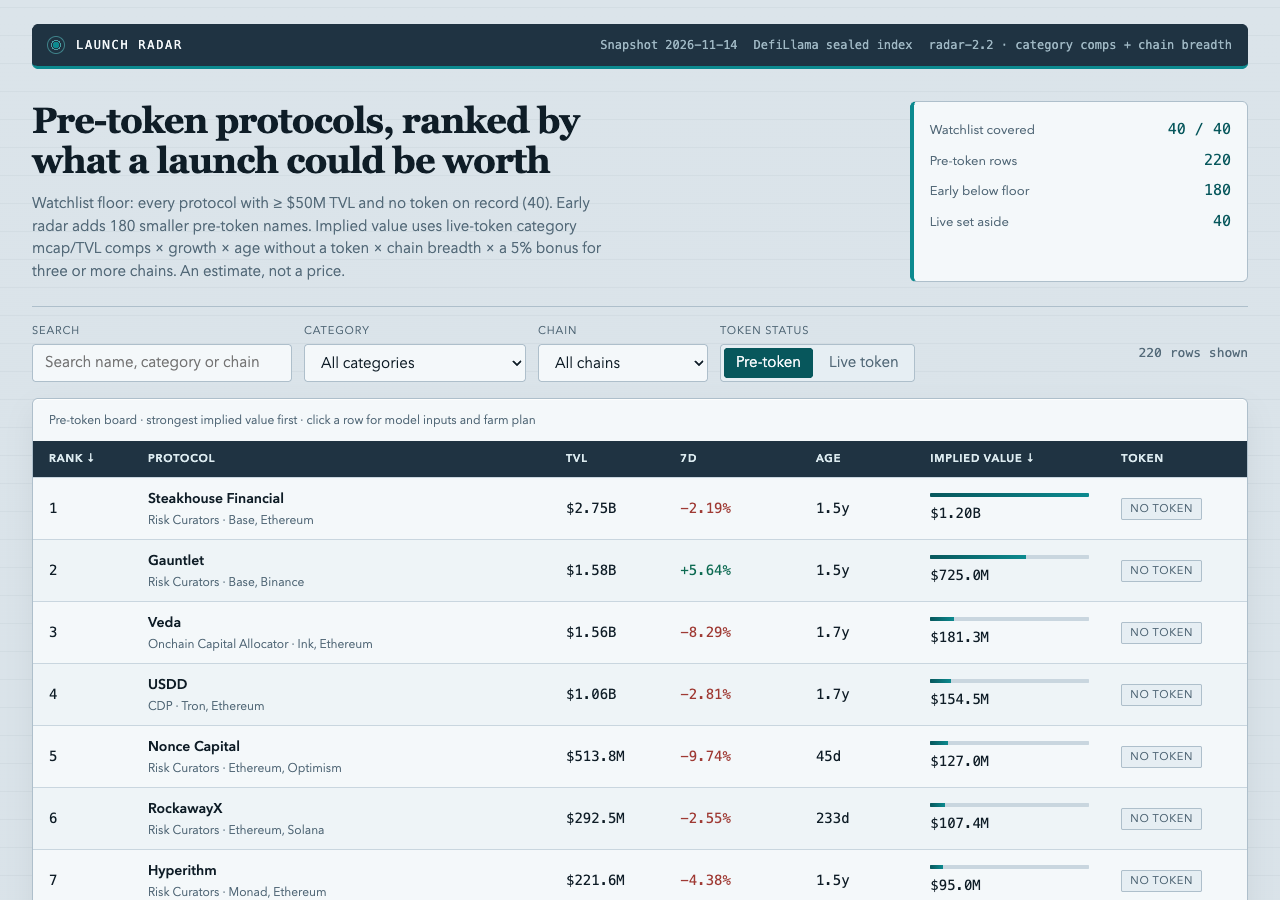
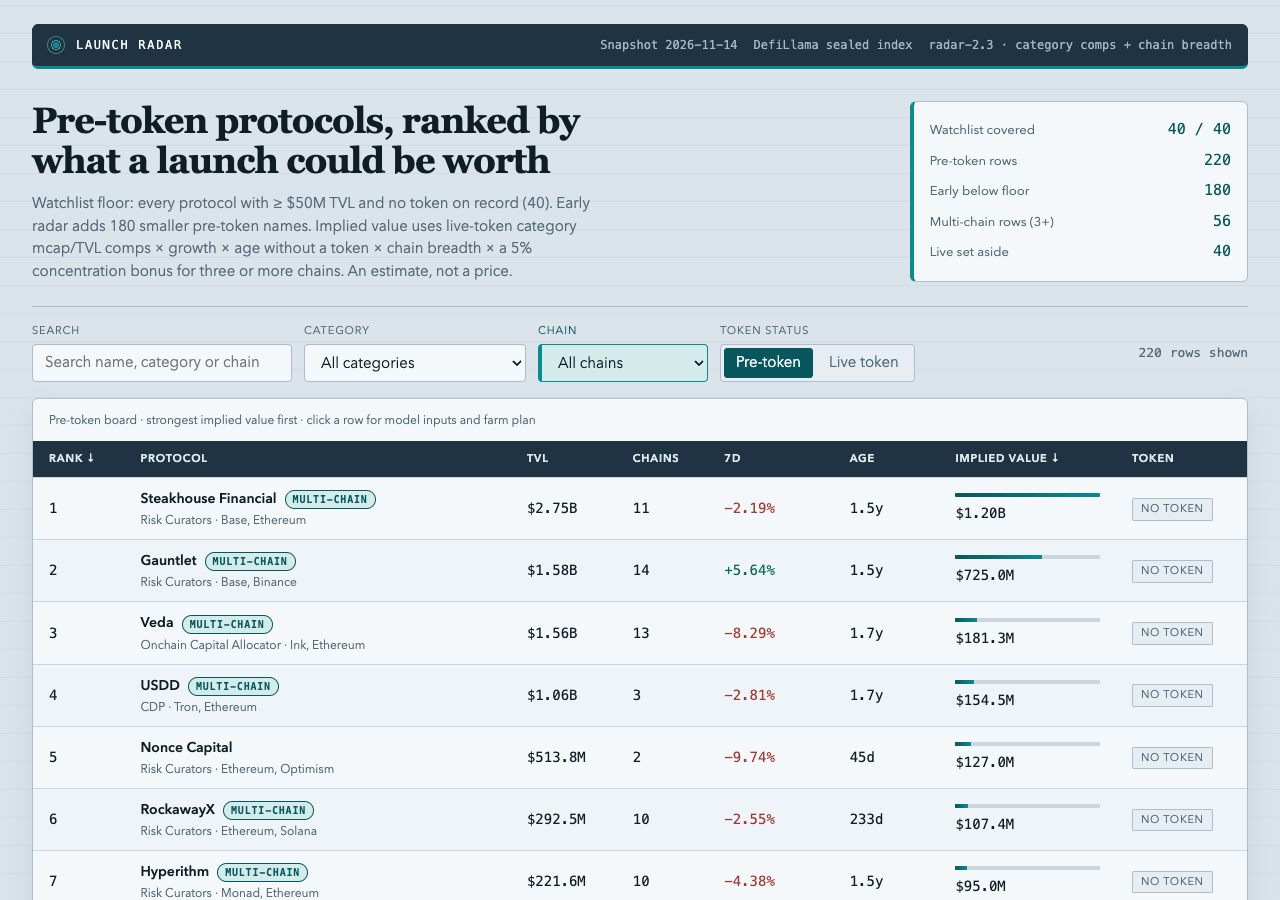
radar-2.3: score breakdown, multi-chain badge, chain sort

diff --git a/dashboard/app.js b/dashboard/app.js
@@ -1,4 +1,4 @@
-// Launch Radar dashboard (radar-2.2). Reads window.RADAR from ../data.js. No network.
+// Launch Radar dashboard (radar-2.3). Reads window.RADAR from ../data.js. No network.
 (function () {
   'use strict';
 
@@ -6,6 +6,7 @@
   if (!DATA) return;
   var app = document.getElementById('board');
   var state = { q: '', category: 'all', chain: 'all', tab: 'pre-token', sort: 'implied', dir: -1, selected: null };
+  var MULTI_CHAIN_MIN = 3;
 
   var usd = new Intl.NumberFormat('en-US', { style: 'currency', currency: 'USD', maximumFractionDigits: 0 });
   function fmtUsd(n) {
@@ -24,20 +25,31 @@
     if (days >= 365) return (days / 365).toFixed(1) + 'y';
     return Math.max(0, Math.round(days)) + 'd';
   }
+  function fmtMult(n) { return (Math.round(n * 1e4) / 1e4).toString(); }
   function clamp(n, lo, hi) { return Math.min(hi, Math.max(lo, n)); }
   function none(v) { return v === null || v === undefined; }
+  function chainCount(row) { return (row.chains || []).length; }
+  function isMultiChain(row) { return chainCount(row) >= MULTI_CHAIN_MIN; }
 
-  // Same arithmetic as lib/model.ts impliedValue (radar-2.2), including concentrationMult.
-  function impliedOf(row, model) {
-    var growth = clamp(none(row.change_7d) ? 0 : row.change_7d, model.growth_floor, model.growth_cap);
-    var growthMult = 1 + (growth / 100) * model.growth_weight;
-    var age = none(row.age_days) ? model.unknown_age_days : row.age_days;
-    var maturity = model.maturity_floor + (clamp(age, 0, model.maturity_days) / model.maturity_days) * model.maturity_range;
-    var cat = (DATA.category_multiples && row.category && DATA.category_multiples[row.category]) || model.fallback_multiple;
-    var n = (row.chains || []).length;
+  // Same arithmetic as scoreBreakdown in lib/model.ts (radar-2.3): every multiplier behind implied value.
+  function scoreBreakdownOf(row, model) {
+    var growthPct = clamp(none(row.change_7d) ? 0 : row.change_7d, model.growth_floor, model.growth_cap);
+    var growthMult = 1 + (growthPct / 100) * model.growth_weight;
+    var ageUsed = none(row.age_days) ? model.unknown_age_days : row.age_days;
+    var maturityMult = model.maturity_floor + (clamp(ageUsed, 0, model.maturity_days) / model.maturity_days) * model.maturity_range;
+    var categoryMult = (DATA.category_multiples && row.category && DATA.category_multiples[row.category]) || model.fallback_multiple;
+    var n = chainCount(row);
     var chainMult = 1 + Math.min(Math.max(n - 1, 0), model.chain_cap) * model.chain_weight;
     var concentrationMult = n >= model.concentration_min_chains ? 1 + model.concentration_bonus : 1;
-    return Math.max(1, Math.round(row.tvl_usd * cat * growthMult * maturity * chainMult * concentrationMult));
+    return {
+      chainCount: n, growthPct: growthPct, ageUsed: ageUsed, ageKnown: !none(row.age_days),
+      categoryMult: categoryMult, growthMult: growthMult, maturityMult: maturityMult,
+      chainMult: chainMult, concentrationMult: concentrationMult
+    };
+  }
+  function impliedOf(row, model) {
+    var b = scoreBreakdownOf(row, model);
+    return Math.max(1, Math.round(row.tvl_usd * b.categoryMult * b.growthMult * b.maturityMult * b.chainMult * b.concentrationMult));
   }
 
   function el(tag, attrs) {
@@ -60,7 +72,7 @@
     return node;
   }
 
-  // Farm plan: mirrors farmSteps in lib/model.ts (radar-2.2).
+  // Farm plan: mirrors farmSteps in lib/model.ts.
   function chainOf(p) { return p.chains && p.chains.length > 0 ? p.chains[0] : 'its main chain'; }
   function capitalFor(p) {
     if (p.tvl_usd >= 5e9) return 300;
@@ -154,6 +166,7 @@
       var av, bv;
       if (key === 'name') { av = a.name.toLowerCase(); bv = b.name.toLowerCase(); }
       else if (key === 'tvl') { av = a.tvl_usd; bv = b.tvl_usd; }
+      else if (key === 'chains') { av = chainCount(a); bv = chainCount(b); }
       else if (key === 'growth') { av = none(a.change_7d) ? -Infinity : a.change_7d; bv = none(b.change_7d) ? -Infinity : b.change_7d; }
       else if (key === 'age') { av = none(a.age_days) ? Infinity : a.age_days; bv = none(b.age_days) ? Infinity : b.age_days; }
       else { av = a.implied_value_usd; bv = b.implied_value_usd; }
@@ -175,15 +188,17 @@
   }
 
   function lede() {
+    var multi = DATA.rows.filter(isMultiChain).length;
     return el('section', { class: 'lede' },
       el('div', null,
         el('h1', { text: 'Pre-token protocols, ranked by what a launch could be worth' }),
-        el('p', { text: 'Watchlist floor: every protocol with ≥ $' + Math.round(DATA.floor_usd / 1e6) + 'M TVL and no token on record (' + DATA.watchlist_size + '). Early radar adds ' + DATA.early_size + ' smaller pre-token names. Implied value uses live-token category mcap/TVL comps × growth × age without a token × chain breadth × a 5% bonus for three or more chains. An estimate, not a price.' })
+        el('p', { text: 'Watchlist floor: every protocol with ≥ $' + Math.round(DATA.floor_usd / 1e6) + 'M TVL and no token on record (' + DATA.watchlist_size + '). Early radar adds ' + DATA.early_size + ' smaller pre-token names. Implied value uses live-token category mcap/TVL comps × growth × age without a token × chain breadth × a 5% concentration bonus for three or more chains. An estimate, not a price.' })
       ),
       el('div', { class: 'facts' },
         el('div', { class: 'fact' }, el('span', { text: 'Watchlist covered' }), el('b', { text: DATA.watchlist_size + ' / ' + DATA.watchlist_size })),
         el('div', { class: 'fact' }, el('span', { text: 'Pre-token rows' }), el('b', { text: String(DATA.board_size) })),
         el('div', { class: 'fact' }, el('span', { text: 'Early below floor' }), el('b', { text: String(DATA.early_size) })),
+        el('div', { class: 'fact' }, el('span', { text: 'Multi-chain rows (' + MULTI_CHAIN_MIN + '+)' }), el('b', { text: String(multi) })),
         el('div', { class: 'fact' }, el('span', { text: 'Live set aside' }), el('b', { text: String(DATA.live_size) }))
       )
     );
@@ -195,7 +210,7 @@
       values.map(function (v) { return el('option', { value: v, text: v, selected: v === current ? 'selected' : null }); })
     );
     select.addEventListener('change', function () { onChange(select.value); writeHash(); render(); });
-    return el('div', { class: 'field' }, el('label', { for: id, text: label }), select);
+    return el('div', { class: 'field' + (id === 'chain' ? ' chain-filter' : '') }, el('label', { for: id, text: label }), select);
   }
 
   function controls() {
@@ -230,6 +245,10 @@
     return (r.category || 'Other') + ' · ' + (r.chains && r.chains.length ? r.chains.slice(0, 2).join(', ') : 'unnamed chain');
   }
 
+  function multiChainBadge(r) {
+    return isMultiChain(r) ? el('span', { class: 'badge-multi', title: chainCount(r) + ' chains', text: 'multi-chain' }) : null;
+  }
+
   function boardTable() {
     var list = sortedRows(rows());
     if (list.length === 0) {
@@ -249,8 +268,9 @@
         onkeydown: function (e) { if (e.key === 'Enter' || e.key === ' ') { e.preventDefault(); openDetail(r.slug); } }
       },
         el('td', { class: 'num', text: String(r.rank) }),
-        el('td', null, el('div', { class: 'name' }, el('b', { text: r.name }), el('span', { class: 'sub', text: where(r) }))),
+        el('td', null, el('div', { class: 'name' }, el('b', null, r.name, multiChainBadge(r)), el('span', { class: 'sub', text: where(r) }))),
         el('td', { class: 'num', text: fmtUsd(r.tvl_usd) }),
+        el('td', { class: 'num', text: String(chainCount(r)) }),
         el('td', { class: 'num ' + (none(r.change_7d) ? '' : r.change_7d >= 0 ? 'pos' : 'neg'), text: fmtPct(r.change_7d) }),
         el('td', { class: 'num', text: fmtAge(r.age_days) }),
         el('td', null, el('div', { class: 'implied' },
@@ -269,6 +289,7 @@
             sortHeader('implied', 'Rank'),
             sortHeader('name', 'Protocol'),
             sortHeader('tvl', 'TVL'),
+            sortHeader('chains', 'Chains'),
             sortHeader('growth', '7d'),
             sortHeader('age', 'Age'),
             sortHeader('implied', 'Implied value'),
@@ -307,7 +328,7 @@
     var m = DATA.model;
     return el('section', { class: 'panel model' },
       el('h2', { text: 'How implied value is computed' }),
-      el('p', { class: 'sub', text: 'One function scores every pre-token row. Category multiples are medians of live-token mcap/TVL in the same DefiLlama category (clamped). No protocol name is special-cased.' }),
+      el('p', { class: 'sub', text: 'One function (scoreBreakdown) returns every multiplier and one more multiplies them with TVL. Category multiples are medians of live-token mcap/TVL in the same DefiLlama category (clamped). No protocol name is special-cased.' }),
       el('div', { class: 'formula' },
         'implied = round( tvl × catMultiple × (1 + clamp(Δ7d,' + m.growth_floor + ',' + m.growth_cap + ')/100 × ' + m.growth_weight + ') × (' + m.maturity_floor + ' + min(age,' + m.maturity_days + ')/' + m.maturity_days + ' × ' + m.maturity_range + ') × (1 + min(chains-1,' + m.chain_cap + ') × ' + m.chain_weight + ') × concentrationMult )'
       ),
@@ -325,10 +346,11 @@
     writeHash();
     dialog.textContent = '';
     var recomputed = impliedOf(row, DATA.model);
+    var b = scoreBreakdownOf(row, DATA.model);
     dialog.appendChild(el('div', { class: 'detail-head' },
       el('div', null,
         el('span', { class: 'brand-name', text: 'Rank ' + row.rank + ' of ' + DATA.board_size }),
-        el('h2', { id: 'detail-title', text: row.name }),
+        el('h2', { id: 'detail-title' }, row.name, multiChainBadge(row)),
         el('p', { class: 'sub', text: (row.category || 'Other') + ' on ' + (row.chains && row.chains.length ? row.chains.join(', ') : 'an unnamed chain') })
       ),
       el('button', { class: 'close', type: 'button', 'aria-label': 'Close details', text: 'Close', onclick: function () { dialog.close(); } })
@@ -337,13 +359,22 @@
       el('h3', { text: 'Implied value' }),
       el('div', { class: 'equation' },
         el('div', null, el('span', { text: 'TVL' }), el('b', { class: 'num', text: fmtUsd(row.tvl_usd) })),
-        el('div', null, el('span', { text: 'Seven-day growth' }), el('b', { class: 'num', text: fmtPct(row.change_7d) })),
-        el('div', null, el('span', { text: 'Age with no token' }), el('b', { class: 'num', text: fmtAge(row.age_days) })),
-        el('div', null, el('span', { text: 'Category multiple' }), el('b', { class: 'num', text: String(row.category_multiple) })),
-        el('div', null, el('span', { text: 'Growth × maturity × chains × concentration' }), el('b', { class: 'num', text: row.growth_multiplier + ' × ' + row.maturity_multiplier + ' × ' + row.chain_multiplier + ' × ' + row.concentration_multiplier })),
         el('div', null, el('span', { text: 'Implied value' }), el('b', { class: 'num', text: fmtUsd(row.implied_value_usd) }))
       ),
       el('p', { class: 'sub', text: 'Model ' + DATA.model_version + ' recomputes this row as ' + fmtUsd(recomputed) + (recomputed === row.implied_value_usd ? ', matching board.json.' : ', which differs from the board.') + ' Estimate only.' })
+    ));
+    dialog.appendChild(el('section', { class: 'detail-section' },
+      el('h3', { text: 'Score breakdown' }),
+      el('div', { class: 'equation' },
+        el('div', null, el('span', { text: 'Chains listed' }), el('b', { class: 'num', text: String(b.chainCount) })),
+        el('div', null, el('span', { text: 'Seven-day growth (clamped)' }), el('b', { class: 'num', text: fmtPct(b.growthPct) + (none(row.change_7d) ? ' (none on record)' : '') })),
+        el('div', null, el('span', { text: 'Age used by the model' }), el('b', { class: 'num', text: fmtAge(b.ageUsed) + (b.ageKnown ? '' : ' (unknown, default)') })),
+        el('div', null, el('span', { text: 'Category multiple' }), el('b', { class: 'num', text: fmtMult(b.categoryMult) })),
+        el('div', null, el('span', { text: 'Growth multiplier' }), el('b', { class: 'num', text: fmtMult(b.growthMult) })),
+        el('div', null, el('span', { text: 'Maturity multiplier' }), el('b', { class: 'num', text: fmtMult(b.maturityMult) })),
+        el('div', null, el('span', { text: 'Chain multiplier' }), el('b', { class: 'num', text: fmtMult(b.chainMult) })),
+        el('div', null, el('span', { text: 'Concentration multiplier' }), el('b', { class: 'num', text: fmtMult(b.concentrationMult) }))
+      )
     ));
     dialog.appendChild(el('section', { class: 'detail-section' },
       el('h3', { text: 'Farm plan' }),

diff --git a/lib/model.ts b/lib/model.ts
@@ -1,4 +1,4 @@
-// Token radar model radar-2.2: implied value from snapshot figures only.
+// Token radar model radar-2.3: implied value from snapshot figures only.
 //
 //   catMultiple = median(mcap/tvl) of live-token peers in the same category (clamped), else FALLBACK
 //   growthMult  = 1 + clamp(change_7d, GROWTH_FLOOR, GROWTH_CAP) / 100 * GROWTH_WEIGHT        (weight 0.7)
@@ -8,9 +8,10 @@
 //   concentrationMult = 1 + CONCENTRATION_BONUS (0.05) when chains.length >= CONCENTRATION_MIN_CHAINS (3), else 1
 //   implied     = max(1, round(tvl_usd * catMultiple * growthMult * maturity * chainMult * concentrationMult))
 //
+// scoreBreakdown() returns every one of those multipliers; impliedValue() only multiplies them together.
 // Live-token protocols are never mixed into the ranked board; their mcap/tvl only sets category comps.
-// No protocol name is special-cased. radar-2.2 adds the concentration factor, raises growth weight to 0.7,
-// widens the early radar to 180 rows and shows 40 live comps.
+// No protocol name is special-cased. radar-2.3 exposes the breakdown as one function; the numbers are
+// the same as radar-2.2 (concentration factor, growth weight 0.7, 180 early rows, 40 live comps).
 
 export interface SnapshotProtocol {
   slug: string;
@@ -70,7 +71,7 @@ export const MODEL: ModelConstants = {
   base_multiple: 0.45,
 };
 
-export const MODEL_VERSION = 'radar-2.2';
+export const MODEL_VERSION = 'radar-2.3';
 export const EARLY_ROWS = 180;
 export const LIVE_ROWS = 40;
 
@@ -218,21 +219,24 @@ export function categoryMultiples(protocols: SnapshotProtocol[], model: ModelCon
   return out;
 }
 
-export function impliedValue(
+export interface ScoreBreakdown {
+  age: number | null;
+  chainCount: number;
+  growthPct: number;
+  growthMult: number;
+  maturityMult: number;
+  categoryMult: number;
+  chainMult: number;
+  concentrationMult: number;
+}
+
+/** Every multiplier that feeds implied value, unrounded. impliedValue() multiplies these with the TVL. */
+export function scoreBreakdown(
   protocol: SnapshotProtocol,
   asOf: string,
   model: ModelConstants,
   multiples: Record<string, number>,
-): {
-  implied: number;
-  growthPct: number;
-  growthMult: number;
-  maturityMult: number;
-  chainMult: number;
-  concentrationMult: number;
-  categoryMult: number;
-  age: number | null;
-} {
+): ScoreBreakdown {
   const age = ageDays(asOf, protocol.listed_at);
   const growthPct = clamp(finite(protocol.change_7d, 0), model.growth_floor, model.growth_cap);
   const growthMult = 1 + (growthPct / 100) * model.growth_weight;
@@ -240,14 +244,24 @@ export function impliedValue(
   const maturityMult =
     model.maturity_floor + (clamp(ageForModel, 0, model.maturity_days) / model.maturity_days) * model.maturity_range;
   const categoryMult = multiples[protocol.category ?? ''] ?? model.fallback_multiple;
-  const extraChains = Math.max(0, protocol.chains.length - 1);
-  const chainMult = 1 + Math.min(extraChains, model.chain_cap) * model.chain_weight;
-  const concentrationMult = protocol.chains.length >= model.concentration_min_chains ? 1 + model.concentration_bonus : 1;
+  const chainCount = protocol.chains.length;
+  const chainMult = 1 + Math.min(Math.max(0, chainCount - 1), model.chain_cap) * model.chain_weight;
+  const concentrationMult = chainCount >= model.concentration_min_chains ? 1 + model.concentration_bonus : 1;
+  return { age, chainCount, growthPct, growthMult, maturityMult, categoryMult, chainMult, concentrationMult };
+}
+
+export function impliedValue(
+  protocol: SnapshotProtocol,
+  asOf: string,
+  model: ModelConstants,
+  multiples: Record<string, number>,
+): ScoreBreakdown & { implied: number } {
+  const b = scoreBreakdown(protocol, asOf, model, multiples);
   const implied = Math.max(
     1,
-    Math.round(protocol.tvl_usd * categoryMult * growthMult * maturityMult * chainMult * concentrationMult),
+    Math.round(protocol.tvl_usd * b.categoryMult * b.growthMult * b.maturityMult * b.chainMult * b.concentrationMult),
   );
-  return { implied, growthPct, growthMult, maturityMult, chainMult, concentrationMult, categoryMult, age };
+  return { ...b, implied };
 }
 
 export function buildBoard(snapshot: Snapshot, model: ModelConstants = MODEL): BoardRow[] {
@@ -306,7 +320,7 @@ function chainOf(p: SnapshotProtocol): string {
   return p.chains.length > 0 ? p.chains[0]! : 'its main chain';
 }
 
-/** radar-2.2 capital tiers by TVL (USD to deploy). */
+/** Capital tiers by TVL (USD to deploy). */
 function capitalFor(p: SnapshotProtocol): number {
   if (p.tvl_usd >= 5_000_000_000) return 300;
   if (p.tvl_usd >= 1_000_000_000) return 200;

diff --git a/main.ts b/main.ts
@@ -1,5 +1,5 @@
 // token-radar-01 entry (Node 22, standard library only).
-// Model radar-2.2: Launch Radar, implied value from live-token category comps (mcap/tvl medians),
+// Model radar-2.3: Launch Radar, implied value from live-token category comps (mcap/TVL medians),
 // growth, maturity, chain breadth and a small concentration bonus for protocols on 3+ chains.
 //
 // Flow: read the sealed snapshot (/input/snapshot.json or --input <file|dir>), score every pre-token
@@ -13,7 +13,7 @@
 import { copyFileSync, existsSync, mkdirSync, readFileSync, readdirSync, statSync, writeFileSync } from 'node:fs';
 import { join } from 'node:path';
 import { fileURLToPath } from 'node:url';
-import { boardIssue, buildRadar, dataScript, parseSnapshot } from './lib/model.ts';
+import { MODEL, MODEL_VERSION, boardIssue, buildRadar, dataScript, parseSnapshot } from './lib/model.ts';
 import { buildDossier } from './vendor/makefun-board.ts';
 
 const here = fileURLToPath(new URL('.', import.meta.url));
@@ -57,11 +57,12 @@ const inputFile = inputArg.endsWith('.json') ? inputArg : join(inputArg, 'snapsh
 if (!existsSync(inputFile)) fail(`no snapshot at ${inputFile}: pass --input <snapshot.json|directory> or mount the sealed /input`, 2);
 const out = arg('output', process.env.MAKEFUN_OUTPUT_DIR ?? '/output');
 
-// radar-2.2 scoring: one pass over the snapshot, then the gate check before anything is written.
+// radar-2.3 scoring: one pass over the snapshot, then the gate check before anything is written.
 const snapshot = parseSnapshot(readFileSync(inputFile, 'utf8'));
 const { board, radar } = buildRadar(snapshot);
 const issue = boardIssue(board, snapshot);
 if (issue !== null) fail(`the model wrote a board the gate refuses: ${issue}`);
+const multiChain = board.filter((r) => r.chains.length >= MODEL.concentration_min_chains).length;
 
 mkdirSync(out, { recursive: true });
 writeFileSync(join(out, 'board.json'), `${JSON.stringify({ rows: board })}\n`);
@@ -80,6 +81,7 @@ for (const name of shots) {
 writeFileSync(join(out, 'dossier.json'), buildDossier(out, { text_max_bytes: TEXT_MAX_BYTES, screenshots: SCREENSHOT_CAPS, dashboard: DASHBOARD_CAPS }));
 
 process.stdout.write(
-  `token radar (radar-2.2): ${snapshot.protocols.length} protocols, ${snapshot.watchlist.length} on the watchlist, ${board.length} rows scored (${radar.early_size} early, ${radar.live_size} live set aside)\n` +
+  `token radar (${MODEL_VERSION}): ${snapshot.protocols.length} protocols, ${snapshot.watchlist.length} on the watchlist, ${board.length} rows scored (${radar.early_size} early, ${radar.live_size} live set aside)\n` +
+    `token radar: ${multiChain} of ${board.length} board rows are multi-chain (>=${MODEL.concentration_min_chains} chains)\n` +
     `token radar: wrote ${join(out, 'board.json')}, ${join(out, 'data.js')}, ${join(out, 'dashboard')} (${dashFiles.length} files), ${join(out, 'screenshots')} (${shots.length} images) and ${join(out, 'dossier.json')}\n`,
 );

diff --git a/dashboard/app.css b/dashboard/app.css
@@ -1,4 +1,4 @@
-/* Launch Radar radar-2.2: cool steel, teal on slate. System fonts only; no network. */
+/* Launch Radar radar-2.3: cool steel, teal on slate. System fonts only; no network. */
 :root {
   --canvas: #cfd9e1;
   --surface: #f4f8fa;
@@ -98,6 +98,9 @@ a { color: var(--accent-deep); }
   border-radius: var(--radius-control); background: var(--surface); min-width: 170px;
 }
 .field input { min-width: 260px; }
+/* Chain filter: accent edge so the chain dropdown reads as the multi-chain control. */
+.chain-filter select { border-color: var(--accent); border-left-width: 4px; background: var(--accent-soft); }
+.chain-filter label { color: var(--accent-deep); }
 .tabs {
   display: flex; gap: var(--s1); padding: 3px; border: 1px solid var(--border);
   border-radius: var(--radius-control); background: var(--panel-alt);
@@ -138,6 +141,13 @@ tbody tr[data-selected="true"] { background: var(--accent-soft); box-shadow: ins
   letter-spacing: 0.06em; text-transform: uppercase; background: var(--panel-alt); color: var(--muted);
   border: 1px solid var(--border);
 }
+/* Shown next to a protocol name when it lists 3 or more chains. */
+.badge-multi {
+  display: inline-block; margin-left: var(--s2); padding: 1px 7px; vertical-align: middle;
+  border-radius: 999px; border: 1px solid var(--accent-deep); background: var(--accent-soft);
+  color: var(--accent-deep); font: 600 10px/1.5 var(--font-num); letter-spacing: 0.08em; text-transform: uppercase;
+  white-space: nowrap;
+}
 .empty { padding: var(--s6); text-align: center; display: grid; gap: var(--s3); justify-items: center; }
 .button {
   min-height: 36px; padding: 0 var(--s4); border-radius: var(--radius-control);
@@ -174,4 +184,5 @@ tbody tr[data-selected="true"] { background: var(--accent-soft); box-shadow: ins
   .lede, .equation { grid-template-columns: 1fr; }
   .field input { min-width: 0; width: 100%; }
   .count { margin-left: 0; }
+  .badge-multi { margin-left: var(--s1); }
 }

diff --git a/README.md b/README.md
@@ -4,7 +4,7 @@
 [![rank](https://make.fun/badge/token-radar-01/ncalamsyah/token-radar-01/rank.svg)](https://make.fun/bounty/token-radar-01/leaderboard?utm_source=github&utm_medium=readme&utm_campaign=token-radar-01)
 [![reward](https://make.fun/badge/token-radar-01/ncalamsyah/token-radar-01/reward.svg)](https://make.fun/bounty/token-radar-01?utm_source=github&utm_medium=readme&utm_campaign=token-radar-01)
 
-Launch Radar ranks pre-token DefiLlama protocols by an implied launch value from sealed snapshot figures (category mcap/TVL comps, 7d growth, age without a token, chain breadth) and ships a static farm-plan dashboard.
+Launch Radar (model radar-2.3) ranks pre-token DefiLlama protocols by an implied launch value computed from sealed snapshot figures: live-token category mcap/TVL comps, 7d growth, age without a token, chain breadth, and a small 5% concentration bonus for protocols on three or more chains. One `scoreBreakdown()` function returns every multiplier, so the dashboard's detail view shows exactly what drove each score. It ships a static farm-plan dashboard with a multi-chain badge, chain filter and chain-count sort.
 
 ## Run it
 
